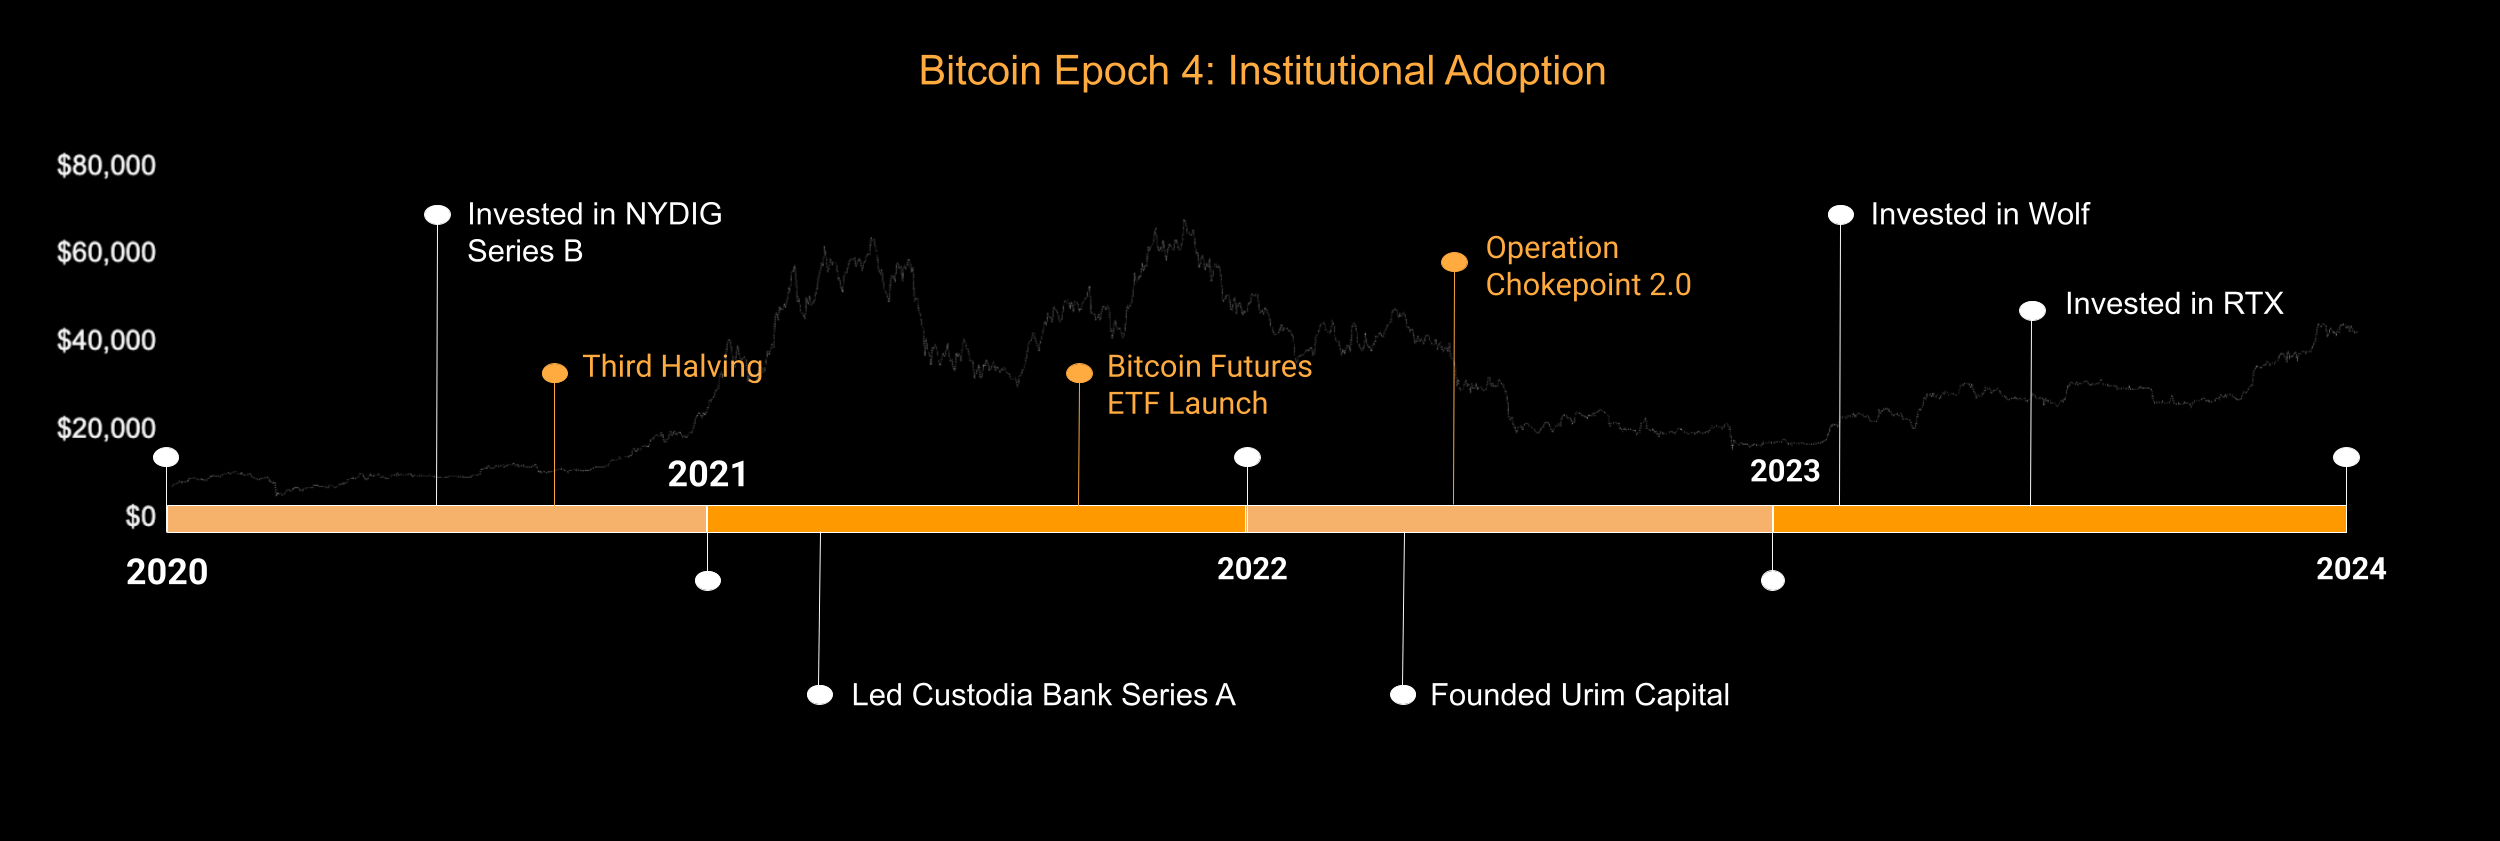
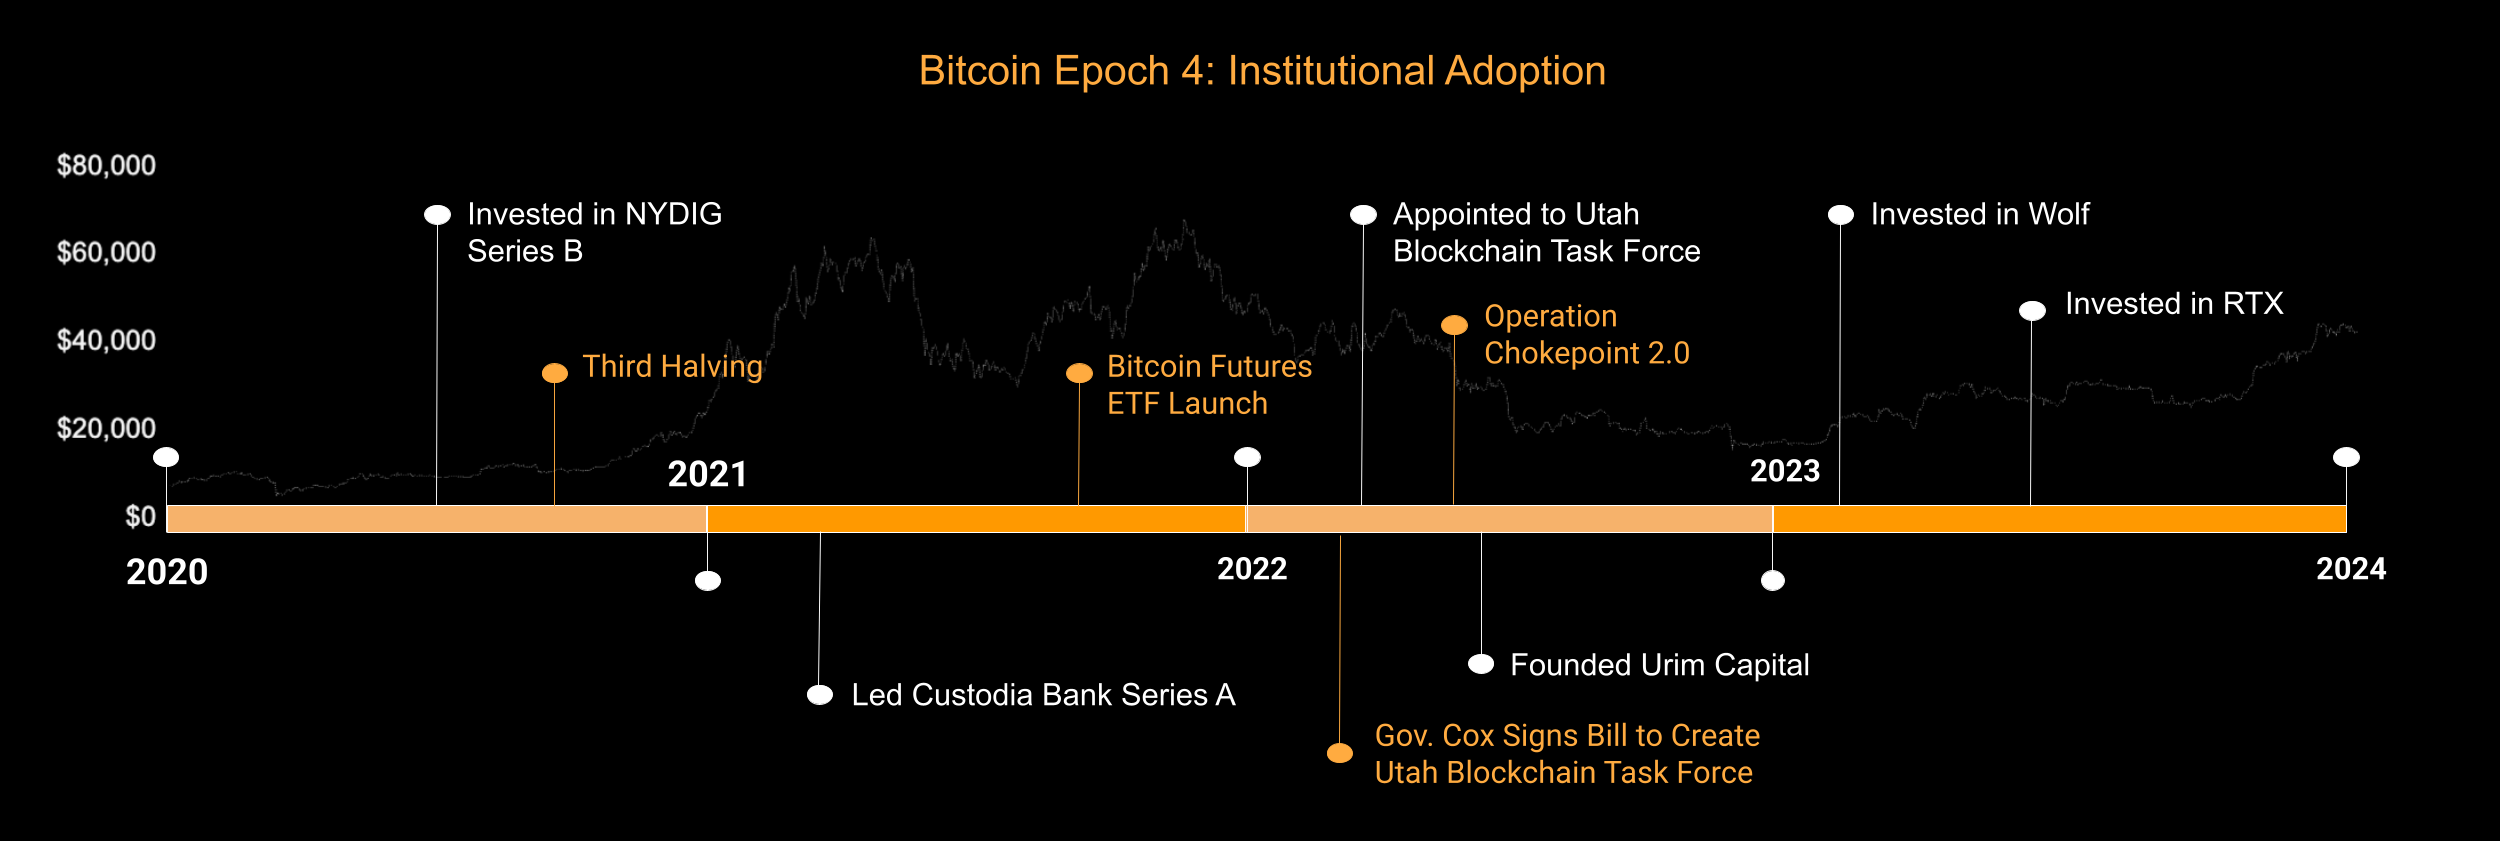
updated epoch 4 timeline and text in epoch 4 includes

Changed region(s): [[0.5304, 0.7729, 0.7176, 0.9275], [0.5304, 0.2473, 0.6864, 0.4328]]

diff --git a/_site/pages/story.html b/_site/pages/story.html
@@ -116,23 +116,23 @@
 
       <p>Trace&rsquo;s public presence and impact took off in 2013. He was a guest on multiple news outlets, sharing his expertise and authority on Bitcoin and its ability to transform the money market and the world we live in. A few of many key moments that solidified his place as an expert in the industry:</p>
       <ul>
-        <li>March: BBC Newsnight Guest</li>
+        <li>March: <a href="https://www.youtube.com/watch?v=UA5_paH__q0" class="text-link" target="_blank">BBC Newsnight</a> Guest</li>
         <li>April:</li>
         <ul>
           <li>Joined the <a href="https://bitcoinmagazine.com/" class="text-link" target="_blank">Bitcoin Magazine</a> Editorial Board</li>
-          <li>Fox Business Guest</li>
+          <li><a href="https://www.youtube.com/watch?v=NM32O5YqgdY" class="text-link" target="_blank">Fox Business</a> Guest</li>
         </ul>
         <li>May:</li>
         <ul>
-          <li>First Bitcoin Conference: Key Organizer and Presented at the conference</li>
+          <li>Organized and <a href="https://www.youtube.com/watch?v=bW6hxEuoHAI" class="text-link" target="_blank">presented</a> at the 2013 Bitcoin Conference</li>
           <li>Armory seed round of funding/investing</li>
         </ul>
-        <li>October: Proofread &ldquo;Bitcoin for Kids&rdquo;</li>
-        <li>December: <a href="https://www.kraken.com/" class="text-link" target="_blank">Kraken</a> - Co-led Series A investment round with Hummingbird, which gave Bitcoin an exchange</li>
+        <li>October: Proofread <a href="https://www.amazon.com/Bitcoin-Beginner-Kids-Trilogy-Inspirational-ebook/dp/B00GCMFWSA" class="text-link" target="_blank">Bitcoin For Kids</a></li>
+        <li>December: <a href="https://techcrunch.com/2014/03/25/payward-raises-5m-from-hummingbird-to-fund-kraken-bitcoin-exchange/" class="text-link" target="_blank">Kraken</a> - Co-led Series A investment round with Hummingbird</li>
       </ul>
 
       <p>
-        The <a href="https://podcasts.apple.com/us/podcast/the-bitcoin-knowledge-podcast/id301670981" class="text-link" target="_blank">Bitcoin Knowledge Podcast</a> was launched in early 2014, giving way to more knowledge sharing for Bitcoin and the money market. Some of the notable guests over the years have included <a href="https://podcasts.apple.com/us/podcast/bitcoin-economist-saifedean-ammous-talks-about-bitcoin/id301670981?i=1000445186419" class="text-link" target="_blank">Saifedean Ammous</a>, <a href="https://podcasts.apple.com/us/podcast/caitlin-long-with-trace-mayer-and-tyler-lindholm/id301670981?i=1000451977886" class="text-link" target="_blank">Caitlin Long</a>, <a href="https://podcasts.apple.com/us/podcast/legendary-guest-dr-adam-back-updates-his-bitcoin-observations/id301670981?i=1000429693505" class="text-link" target="_blank">Adam Back</a>, and
+        The <a href="https://www.bitcoin.kn" class="text-link" target="_blank">Bitcoin Knowledge Podcast</a> was launched in early 2014, giving way to more knowledge sharing for Bitcoin and the money market. Some of the notable guests over the years have included <a href="https://podcasts.apple.com/us/podcast/bitcoin-economist-saifedean-ammous-talks-about-bitcoin/id301670981?i=1000445186419" class="text-link" target="_blank">Saifedean Ammous</a>, <a href="https://podcasts.apple.com/us/podcast/caitlin-long-with-trace-mayer-and-tyler-lindholm/id301670981?i=1000451977886" class="text-link" target="_blank">Caitlin Long</a>, <a href="https://podcasts.apple.com/us/podcast/legendary-guest-dr-adam-back-updates-his-bitcoin-observations/id301670981?i=1000429693505" class="text-link" target="_blank">Adam Back</a>, and
         <a href="https://podcasts.apple.com/us/podcast/stephen-livera-interviews-trace-mayer-about-bitcoin/id301670981?i=1000454558016" class="text-link" target="_blank">Stephen Livera</a>.
       </p>
 
@@ -175,12 +175,12 @@
       <p>Starting in 2020, Trace&rsquo;s investments really started to climb. In Q4 2020, he helped <a href="https://www.nydig.com/" class="text-link" target="_blank">New York Digital Investment Group (NYDIG)</a>, a Bitcoin-focused financial firm, scale and take off through his Series B funding.</p>
       <p>Following his NYDIG investment, he also</p>
       <ul>
-        <li>Led the <a href="https://custodiabank.com/" class="text-link" target="_blank">Custodia Bank</a> Series A funding (2021), a specialized digital asset bank</li>
+        <li>Led the <a href="https://cointelegraph.com/news/avanti-financial-raises-37-million-to-launch-institutional-crypto-bank" class="text-link" target="_blank">Custodia Bank</a> Series A funding (2021), a specialized digital asset bank</li>
         <li>Invested in <a href="https://wolfnyc.com/" class="text-link" target="_blank">Wolf</a> (2023), a lightning incubator with NYDIG</li>
         <li>Invested in <a href="https://www.rtxfintech.com/" class="text-link" target="_blank">RTX</a> (2023), a swap dealer focused on efficiency, liquidity, and dependability</li>
       </ul>
-
-      <p>His most recent investment and business venture was founding <a href="https://www.urimcapital.com/" class="text-link" target="_blank">Urim Capital</a> in 2024. This firm is focused on early-stage cryptocurrency related projects, real estate, and software development.</p>
+      <p>While increasing his investing footprint during the wave of institutional adoption, Trace was also instrumental in driving forward regulatory progress. In March 2022, Utah Governor Cox signed the bill to create the Utah Blockchain Task Force. That same month, Trace was <a href="https://boards.utah.gov/s/board/related/a018y0000047HH3AAM/Board_Seats__r">appointed to the Utah Blockchain Task Force.</a></p>
+      <p>His most recent investment and business venture was founding <a href="https://www.urimcapital.com/" class="text-link" target="_blank">Urim Capital</a> in 2022. This firm is focused on early-stage cryptocurrency related projects, real estate, and software development.</p>
 
       <p>This is not the end for Trace, but rather a continuation of infinite possibilities.</p>
     </div>

diff --git a/_includes/page_sections/timelines/epoch_4.html b/_includes/page_sections/timelines/epoch_4.html
@@ -13,8 +13,8 @@
         <li>Invested in <a href="https://wolfnyc.com/" class="text-link" target="_blank">Wolf</a> (2023), a lightning incubator with NYDIG</li>
         <li>Invested in <a href="https://www.rtxfintech.com/" class="text-link" target="_blank">RTX</a> (2023), a swap dealer focused on efficiency, liquidity, and dependability</li>
       </ul>
-
-      <p>His most recent investment and business venture was founding <a href="https://www.urimcapital.com/" class="text-link" target="_blank">Urim Capital</a> in 2024. This firm is focused on early-stage cryptocurrency related projects, real estate, and software development.</p>
+      <p>While increasing his investing footprint during the wave of institutional adoption, Trace was also instrumental in driving forward regulatory progress. In March 2022, Utah Governor Cox signed the bill to create the Utah Blockchain Task Force. That same month, Trace was <a href="https://boards.utah.gov/s/board/related/a018y0000047HH3AAM/Board_Seats__r">appointed to the Utah Blockchain Task Force.</a></p>
+      <p>His most recent investment and business venture was founding <a href="https://www.urimcapital.com/" class="text-link" target="_blank">Urim Capital</a> in 2022. This firm is focused on early-stage cryptocurrency related projects, real estate, and software development.</p>
 
       <p>This is not the end for Trace, but rather a continuation of infinite possibilities.</p>
     </div>
